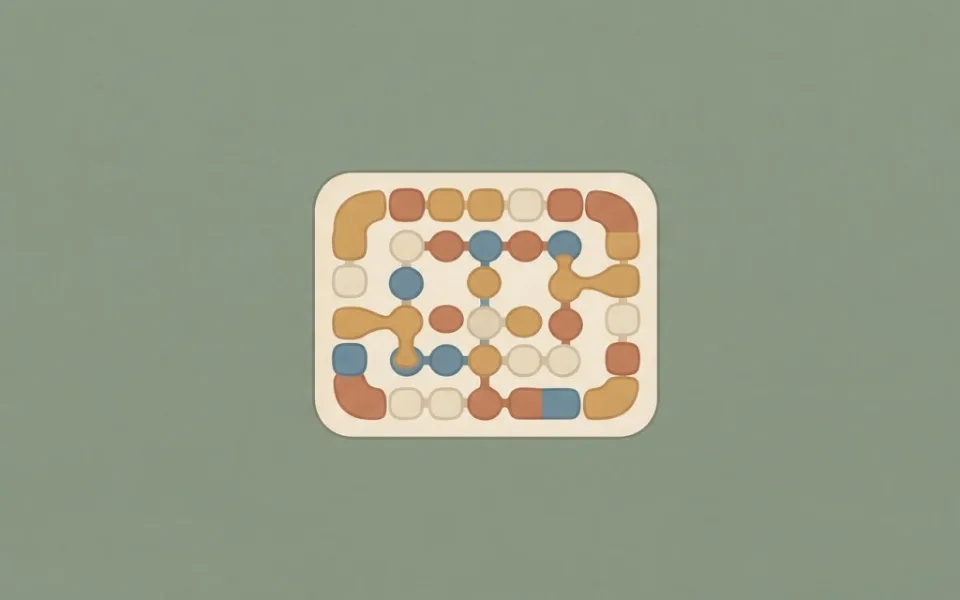
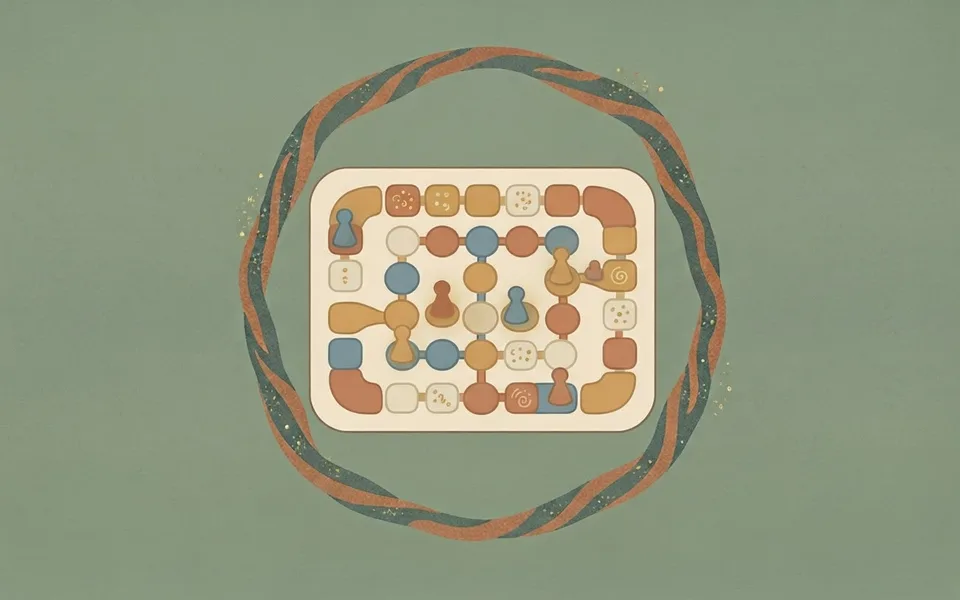
chore: add and update activity images

Changed region(s): [[0.25, 0.06, 0.7812, 0.9]]

diff --git a/SDD/2026-10-26_imagens-internas-lote-5.md b/SDD/2026-10-26_imagens-internas-lote-5.md
@@ -1,0 +1,78 @@
+# [FEAT] Imagens Internas das Atividades - Lote 5 (Odd One Out e Describe the Room Restante)
+
+> **Status:** Em andamento (Agendada para 15:36)
+> **Autor:** Natanael Fernando Gatti Brentano · **Revisor:** Pair Programming Agent · **Criada em:** 2026-10-26 · **Atualizada em:** 2026-10-26
+
+## Detalhes da Atividade
+
+- **O que precisa ser feito:** Gerar e integrar 13 ilustrações internas em formato WebP para duas atividades do catálogo: `odd-one-out-1` (8 perguntas, completando 100% da atividade) e `describe-the-room-and-objects` (cards 2 a 6, completando 100% da atividade).
+- **Problema e evidência:** As atividades `odd-one-out-1` (questões 1 a 8) e `describe-the-room-and-objects` (cards 2 a 6) ainda não possuem seus arquivos de imagem em `public/images/activities/`, apresentando cards sem ilustração no player.
+- **Impacto de não fazer:** Alunos e professores têm uma experiência visual incompleta durante a realização de atividades práticas de vocabulário, lógica e descrição de cenários.
+- **Para quem é destinado:** Usuários e estudantes que utilizam as atividades das categorias Fun e Speaking.
+- **História de usuário:** Como estudante ou professor de inglês, quero ver ilustrações temáticas e atrativas em cada cartão de Odd One Out e Describe the Room, para enriquecer o vocabulário e a compreensão contextual.
+- **Como saberemos que deu certo:** Todas as 13 imagens geradas e salvas em `public/images/activities/`, formato WebP, largura ≤ 960 px, peso ≤ 100 KB cada, e 100% de aprovação na suíte de testes unitários (`npm test tests/unit/activities/images.test.ts`).
+
+## Requisitos da Atividade
+
+### Requisitos funcionais
+
+| ID | Descrição | Prioridade | CAs |
+|----|-----------|------------|-----|
+| RF01 | Gerar as 8 imagens de `odd-one-out-1` (question-1 a question-8) para atingir 100% de cobertura da atividade (8/8) | P0 | CA01, CA03 |
+| RF02 | Gerar as 5 imagens restantes de `describe-the-room-and-objects` (card-2 a card-6) para atingir 100% de cobertura da atividade (6/6) | P0 | CA02, CA03 |
+| RF03 | Converter as 13 imagens geradas para `.webp` redimensionadas com largura máxima de 960 px e peso ≤ 100 KB | P0 | CA03, CA04 |
+| RF04 | Atualizar a checklist de prompts no arquivo `content/prompts/fila-image-playground.md` marcando os itens concluídos | P1 | CA05 |
+
+### Requisitos não-funcionais
+
+| ID | Descrição | Prioridade | CAs |
+|----|-----------|------------|-----|
+| RNF01 | Cada arquivo WebP deve pesar ≤ 100 KB | P0 | CA03 |
+| RNF02 | O estilo visual deve seguir estritamente o guia do projeto: flat vector, paleta terrosa quente, sem texto ou números, sem bordas | P0 | CA01, CA02 |
+| RNF03 | O suite de testes unitários `tests/unit/activities/images.test.ts` deve passar sem regressões | P0 | CA04 |
+
+### Dependências técnicas
+
+- Subagentes `image-generator` com modelos de geração de imagem Gemini.
+- Node.js com biblioteca `sharp` para redimensionamento e conversão WebP.
+- Vitest para execução dos testes unitários.
+
+### Recursos necessários
+
+- Prompts definidos no catálogo de atividades e em `content/prompts/fila-image-playground.md`.
+
+## Critérios de Aceitação / Entregas
+
+- [ ] **CA01:** Dado o catálogo de atividades, quando inspecionada a pasta `public/images/activities/odd-one-out-1/`, então devem existir todos os arquivos de `question-1.webp` até `question-8.webp` (8/8 imagens completas).
+- [ ] **CA02:** Dado o catálogo de atividades, quando inspecionada a pasta `public/images/activities/describe-the-room-and-objects/`, então devem existir todos os arquivos de `card-1.webp` até `card-6.webp` (6/6 imagens completas).
+- [ ] **CA03:** Dado os arquivos WebP criados, quando medidos tamanho e dimensões, então nenhum arquivo deve exceder 100 KB e a largura máxima deve ser ≤ 960 px.
+- [ ] **CA04:** Dado o repositório do projeto, quando executado `npm test tests/unit/activities/images.test.ts`, então o teste deve passar com sucesso e o total de imagens não deve ultrapassar o limite global de 30 MB.
+- [ ] **CA05:** Dado o arquivo `content/prompts/fila-image-playground.md`, quando verificados os itens correspondentes às duas atividades, então devem estar marcados como concluídos `[x]`.
+
+## O que a atividade não inclui
+
+- Geração de imagens para outras atividades do catálogo: motivo: divisão em lotes gerenciáveis de ~13 imagens.
+- Modificação dos componentes de UI do player: motivo: o player já consome dinamicamente as imagens existentes nos JSONs.
+
+### Considerado para o futuro (P2)
+
+- Lotes subsequentes para cobrir as atividades de `quiz-board-basic-1`, `mystery-scenes-what-just-happened` e `some-or-any`.
+
+## Dúvidas em aberto
+
+| # | Dúvida | Responsável (PO/dev/design) | Bloqueante? | Resposta |
+|---|--------|-----------------------------|-------------|----------|
+| D01 | N/A | Dev | Não | N/A |
+
+## Sugestões de casos de teste
+
+| # | Cenário | Tipo (unit/integração/e2e/manual) | Cobre | Passos | Resultado esperado |
+|---|---------|-----------------------------------|-------|--------|--------------------|
+| CT01 | Validação de existência e formato | unit | CA01, CA02, CA03, CA04 | Executar `npm test tests/unit/activities/images.test.ts` | 2/2 testes passam, todas as 13 imagens WebP válidas e dentro dos limites de peso |
+| CT02 | Conferência de checklist | manual | CA05 | Inspecionar `content/prompts/fila-image-playground.md` | Itens marcados com `[x]` |
+
+## URL Complementar
+
+- Documentação técnica: `src/lib/admin/missing-images.ts`
+- Referências de estilo: `content/prompts/image-style.md`
+- Checklist de prompts: `content/prompts/fila-image-playground.md`
